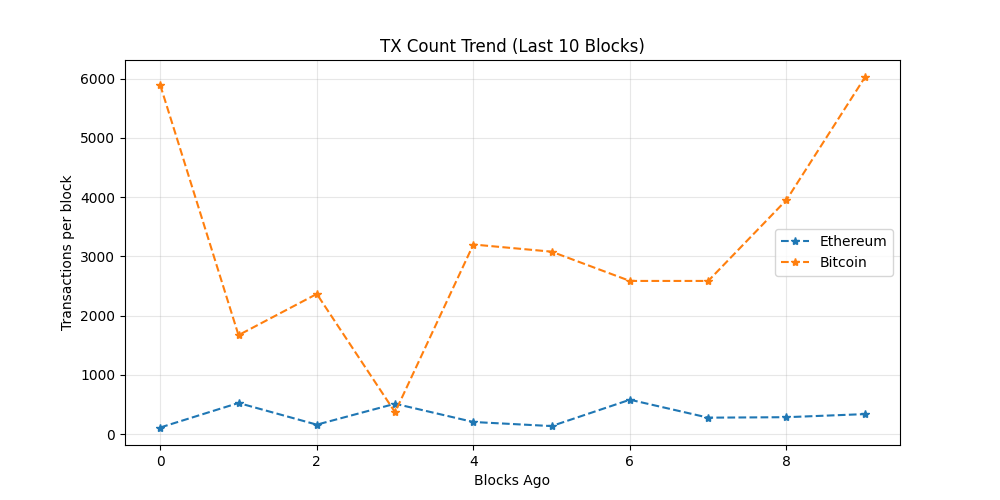
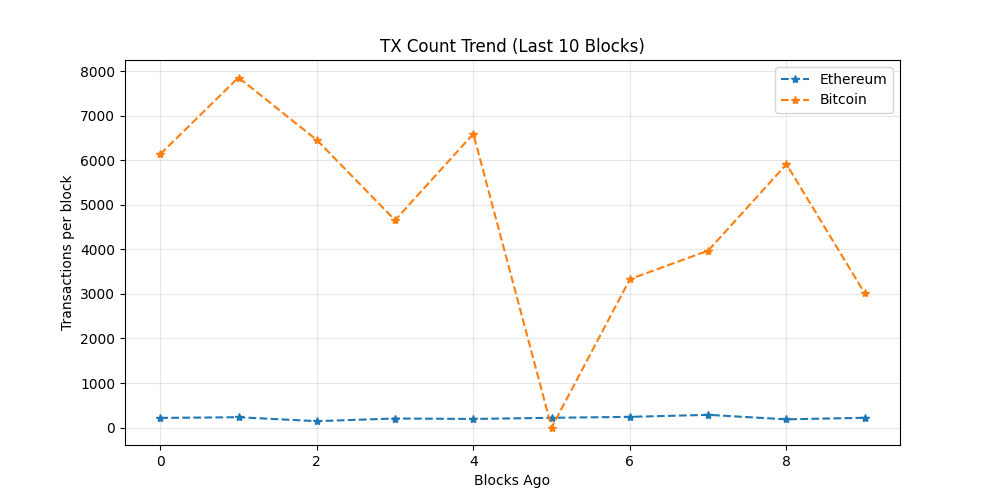
chore: update on-chain dashboard

diff --git a/README.md b/README.md
@@ -19,7 +19,7 @@ The README itself acts as the dashboard and is regenerated automatically on a 6 
 demonstrating a production-style, infrastructure-focused observability workflow rather
 than a traditional UI-driven approach.
 
-_Last updated: 2026-11-01 13:18 UTC_
+_Last updated: 2026-11-01 21:59 UTC_
 
 ## API Usage (GetBlock.io)
 - Calls used: **24**
@@ -27,8 +27,8 @@ _Last updated: 2026-11-01 13:18 UTC_
 ## Network Metrics
 | Chain | Block Height | TX Count | TPS (10 blk avg) | Block Util | Avg Fee |
 |------|-------------|----------|------------------|------------|---------|
-| Ethereum | 26320170 | 338 | 28.17 | 61.87% | 0.1 Gwei |
-| Bitcoin | 974129 | 6020 | 41.23 | 99.79% | N/A |
+| Ethereum | 26322763 | 220 | 18.33 | 35.33% | 0.0 Gwei |
+| Bitcoin | 974181 | 3012 | 2.1 | 95.39% | N/A |
 
 ## Visuals
 ### Transactions Trend
@@ -43,9 +43,11 @@ _Last updated: 2026-11-01 13:18 UTC_
 ## Whale Alerts (latest block)
 - Transaction hashes are truncated for readability.
 - Full hashes are available in `dashboards/metrics.json`
-- Bitcoin | 109.33 BTC | `f5dfb1288ed8…`
-- Bitcoin | 231.71 BTC | `7c9ce8deb42b…`
-- Bitcoin | 2483.08 BTC | `47ad73ab5790…`
+- Bitcoin | 100.97 BTC | `e543584ed908…`
+- Bitcoin | 105.23 BTC | `9f7424b689c3…`
+- Bitcoin | 102.79 BTC | `62f5d454c1b3…`
+- Bitcoin | 102.79 BTC | `33f36992cd94…`
+- Bitcoin | 102.79 BTC | `9d4924ec5b2d…`
 
 ## Run locally
 
